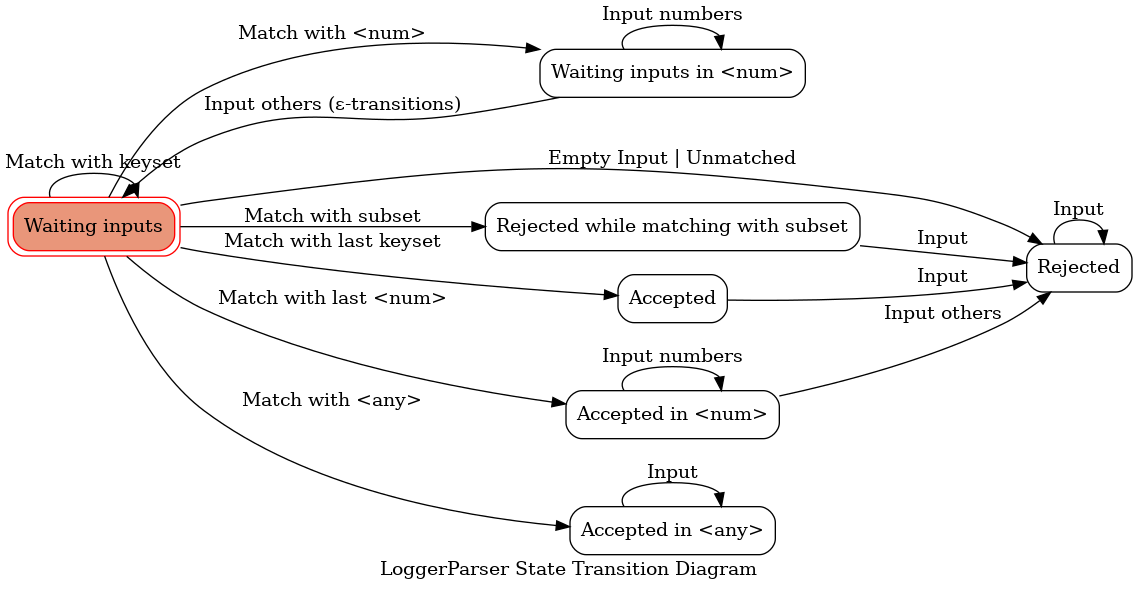
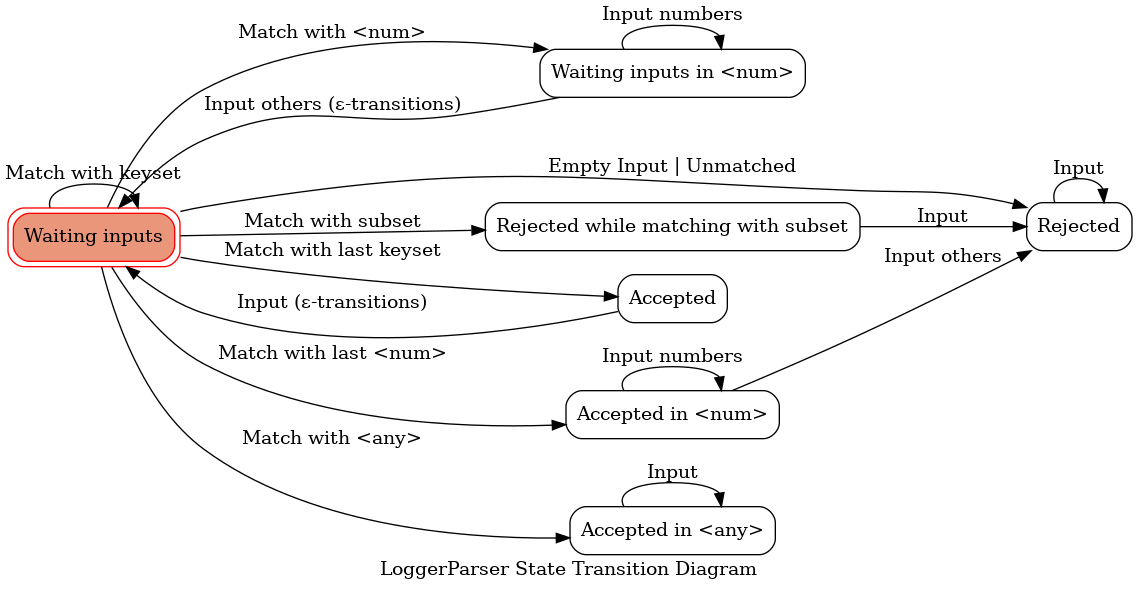
fix a problem whare commands with contractions could not be excuted.

diff --git a/core/src/bind/logger_parser.cpp b/core/src/bind/logger_parser.cpp
@@ -270,9 +270,9 @@ namespace vind
             return 0 ;
         }
 
-        unsigned char do_accept(const KeyLog& UNUSED(log)) {
-            state_hist_.push(ParserState::REJECT) ;
-            return 0 ;
+        unsigned char do_accept(const KeyLog& log) {
+            state_hist_.push(ParserState::WAITING) ;
+            return do_waiting(log) ; // Epsilon Transition
         }
 
         unsigned char do_accept_in_any(const KeyLog& UNUSED(log)) {
@@ -295,7 +295,7 @@ namespace vind
                 state_hist_.push(state_hist_.top() + 1) ; //count <num>'s keycode
                 return state_hist_.top() & KEYSET_NUM_MASK ;
             }
-            return do_waiting(log) ;
+            return do_waiting(log) ; // Epsilon Transition
         }
     } ;
 

diff --git a/devdocs/generator/logger_parser/generate.py b/devdocs/generator/logger_parser/generate.py
@@ -88,9 +88,9 @@ transitions = [
 
     # Accepted
     {
-        'trigger': 'Input',
+        'trigger': 'Input (ε-transitions)',
         'source': states[4],
-        'dest': states[2]
+        'dest': states[0]
     },
 
     # Accepted in <num>
